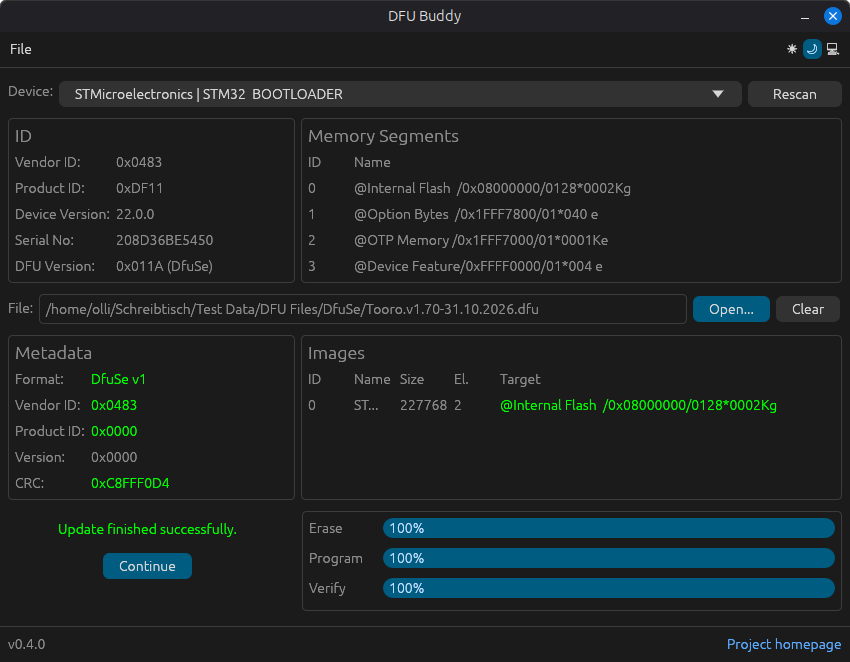
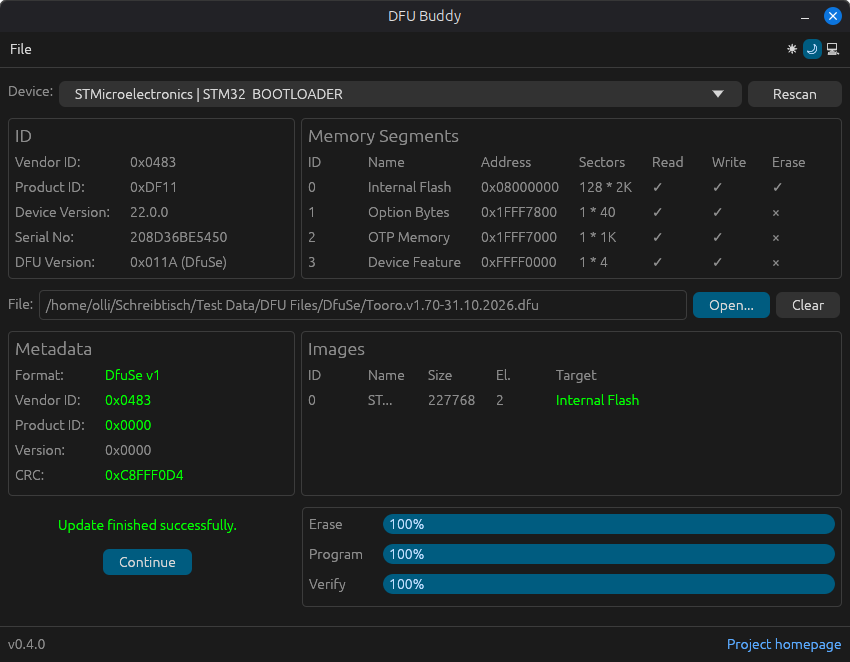
Made memory segments display more human-readable

diff --git a/src/ui/file.rs b/src/ui/file.rs
@@ -1,8 +1,11 @@
 //! UI elements showing file-related information
 
-use egui::{Button, Color32, Grid, Label, RichText, Ui};
+use egui::{Button, Color32, Grid, Label, RichText, Ui, vec2};
 
-use crate::{AppEvent, DfuFileChecks, dfudev};
+use crate::{
+    AppEvent, DfuFileChecks,
+    dfudev::{self, dfuse::MemorySegment},
+};
 
 /// Show box with file selection
 pub fn selection(
@@ -64,102 +67,106 @@ pub fn common_info(
             Some(dfu_file) => {
                 ui.vertical(|ui| {
                     ui.heading("Metadata");
-                    Grid::new("file_info").show(ui, |ui| {
-                        let vendor_id = dfu_file.suffix.idVendor;
-                        let product_id = dfu_file.suffix.idProduct;
+                    Grid::new("file_info")
+                        .spacing(vec2(20.0, 5.0))
+                        .show(ui, |ui| {
+                            let vendor_id = dfu_file.suffix.idVendor;
+                            let product_id = dfu_file.suffix.idProduct;
 
-                        ui.label("Format:");
-                        let text_color = if device_active {
-                            if dfu_file_checks.dfu_version_valid {
+                            ui.label("Format:");
+                            let text_color = if device_active {
+                                if dfu_file_checks.dfu_version_valid {
+                                    Color32::GREEN
+                                } else {
+                                    ui.style().visuals.error_fg_color
+                                }
+                            } else {
+                                Color32::LIGHT_GRAY
+                            };
+                            let format_label = ui.add(Label::new(
+                                RichText::new(format!("{}", dfu_file.content)).color(text_color),
+                            ));
+                            if device_active && !dfu_file_checks.dfu_version_valid {
+                                format_label
+                                    .on_hover_text("File format is not appropriate for the device");
+                            }
+                            ui.end_row();
+
+                            ui.label("Vendor ID:");
+                            let text_color = if device_active {
+                                if dfu_file_checks.vendor_id_accepted {
+                                    Color32::GREEN
+                                } else {
+                                    ui.style().visuals.error_fg_color
+                                }
+                            } else {
+                                Color32::LIGHT_GRAY
+                            };
+                            let vendor_id_label = ui.add(Label::new(
+                                RichText::new(format!("0x{vendor_id:04X}")).color(text_color),
+                            ));
+                            if device_active && !dfu_file_checks.vendor_id_accepted {
+                                vendor_id_label.on_hover_text(
+                                    "Vendor id does not match the one of the device",
+                                );
+                                if ui
+                                    .button("Approve")
+                                    .on_hover_text("Accept vendor id for this device")
+                                    .clicked()
+                                {
+                                    approve_vendor_id = true;
+                                }
+                            }
+                            ui.end_row();
+
+                            ui.label("Product ID:");
+                            let text_color = if device_active {
+                                if dfu_file_checks.product_id_accepted {
+                                    Color32::GREEN
+                                } else {
+                                    ui.style().visuals.error_fg_color
+                                }
+                            } else {
+                                Color32::LIGHT_GRAY
+                            };
+                            let product_id_label = ui.add(Label::new(
+                                RichText::new(format!("0x{product_id:04X}")).color(text_color),
+                            ));
+                            if device_active && !dfu_file_checks.product_id_accepted {
+                                product_id_label.on_hover_text(
+                                    "Product id does not match the one of the device",
+                                );
+                                if ui
+                                    .button("Approve")
+                                    .on_hover_text("Accept product id for this device")
+                                    .clicked()
+                                {
+                                    approve_product_id = true;
+                                }
+                            }
+                            ui.end_row();
+
+                            ui.label("Version:");
+                            ui.label(format!("0x{:04X}", dfu_file.suffix.bcdDevice));
+                            ui.end_row();
+
+                            ui.label("CRC:");
+                            let text_color = if dfu_file_checks.crc_valid {
                                 Color32::GREEN
                             } else {
                                 ui.style().visuals.error_fg_color
+                            };
+                            let crc_label = ui.add(Label::new(
+                                RichText::new(format!("0x{:08X}", dfu_file.suffix.dwCRC))
+                                    .color(text_color),
+                            ));
+                            if !dfu_file_checks.crc_valid {
+                                crc_label.on_hover_text(
+                                    "Calculated CRC does not match the value stored in the file",
+                                );
                             }
-                        } else {
-                            Color32::LIGHT_GRAY
-                        };
-                        let format_label = ui.add(Label::new(
-                            RichText::new(format!("{}", dfu_file.content)).color(text_color),
-                        ));
-                        if device_active && !dfu_file_checks.dfu_version_valid {
-                            format_label
-                                .on_hover_text("File format is not appropriate for the device");
-                        }
-                        ui.end_row();
-
-                        ui.label("Vendor ID:");
-                        let text_color = if device_active {
-                            if dfu_file_checks.vendor_id_accepted {
-                                Color32::GREEN
-                            } else {
-                                ui.style().visuals.error_fg_color
-                            }
-                        } else {
-                            Color32::LIGHT_GRAY
-                        };
-                        let vendor_id_label = ui.add(Label::new(
-                            RichText::new(format!("0x{vendor_id:04X}")).color(text_color),
-                        ));
-                        if device_active && !dfu_file_checks.vendor_id_accepted {
-                            vendor_id_label
-                                .on_hover_text("Vendor id does not match the one of the device");
-                            if ui
-                                .button("Approve")
-                                .on_hover_text("Accept vendor id for this device")
-                                .clicked()
-                            {
-                                approve_vendor_id = true;
-                            }
-                        }
-                        ui.end_row();
-
-                        ui.label("Product ID:");
-                        let text_color = if device_active {
-                            if dfu_file_checks.product_id_accepted {
-                                Color32::GREEN
-                            } else {
-                                ui.style().visuals.error_fg_color
-                            }
-                        } else {
-                            Color32::LIGHT_GRAY
-                        };
-                        let product_id_label = ui.add(Label::new(
-                            RichText::new(format!("0x{product_id:04X}")).color(text_color),
-                        ));
-                        if device_active && !dfu_file_checks.product_id_accepted {
-                            product_id_label
-                                .on_hover_text("Product id does not match the one of the device");
-                            if ui
-                                .button("Approve")
-                                .on_hover_text("Accept product id for this device")
-                                .clicked()
-                            {
-                                approve_product_id = true;
-                            }
-                        }
-                        ui.end_row();
-
-                        ui.label("Version:");
-                        ui.label(format!("0x{:04X}", dfu_file.suffix.bcdDevice));
-                        ui.end_row();
-
-                        ui.label("CRC:");
-                        let text_color = if dfu_file_checks.crc_valid {
-                            Color32::GREEN
-                        } else {
-                            ui.style().visuals.error_fg_color
-                        };
-                        let crc_label = ui.add(Label::new(
-                            RichText::new(format!("0x{:08X}", dfu_file.suffix.dwCRC))
-                                .color(text_color),
-                        ));
-                        if !dfu_file_checks.crc_valid {
-                            crc_label.on_hover_text(
-                                "Calculated CRC does not match the value stored in the file",
-                            );
-                        }
-                        ui.end_row();
-                    });
+                            ui.end_row();
+                        });
                 });
             }
             None => {
@@ -201,6 +208,7 @@ pub fn content_info(
                         ui.heading("Images");
                         Grid::new("file_content_info")
                             .num_columns(5)
+                            .spacing(vec2(20.0, 5.0))
                             .show(ui, |ui| {
                                 ui.label("ID");
                                 ui.label("Name");
@@ -223,13 +231,16 @@ pub fn content_info(
                                         let target = device_info.alt_settings.iter().find(|&alt| {
                                             alt.0 == image.target_prefix.bAlternateSetting
                                         });
-                                        if let Some(target) = target {
+                                        if let Some((_, desc)) = target {
+                                            let segment = MemorySegment::from_string_desc(desc);
                                             ui.add(
                                                 Label::new(
-                                                    RichText::new(&target.1).color(Color32::GREEN),
+                                                    RichText::new(segment.name)
+                                                        .color(Color32::GREEN),
                                                 )
                                                 .truncate(),
-                                            );
+                                            )
+                                            .on_hover_text(desc);
                                         } else {
                                             ui.add(Label::new(
                                                 RichText::new("Not found")

diff --git a/src/ui/device.rs b/src/ui/device.rs
@@ -1,8 +1,11 @@
 //! UI elements showing device-related information
 
-use egui::{Button, Color32, ComboBox, Grid, Label, ProgressBar, RichText, ScrollArea, Ui};
+use egui::{Button, Color32, ComboBox, Grid, Label, ProgressBar, RichText, ScrollArea, Ui, vec2};
 
-use crate::{AppEvent, DeviceUpdateState, DeviceUpdateStep, dfudev};
+use crate::{
+    AppEvent, DeviceUpdateState, DeviceUpdateStep,
+    dfudev::{self, dfuse::MemorySegment},
+};
 
 /// Show combobox with devices
 pub fn selection(
@@ -86,35 +89,38 @@ pub fn common_info(ui: &mut Ui, device_info: Option<&dfudev::DeviceInfo>) {
             Some(device_info) => {
                 ui.vertical(|ui| {
                     ui.heading("ID");
-                    Grid::new("device_info").show(ui, |ui| {
-                        ui.label("Vendor ID:");
-                        ui.label(format!("0x{:04X}", device_info.vendor_id));
-                        ui.end_row();
+                    Grid::new("device_info")
+                        .num_columns(2)
+                        .spacing(vec2(20.0, 5.0))
+                        .show(ui, |ui| {
+                            ui.label("Vendor ID:");
+                            ui.label(format!("0x{:04X}", device_info.vendor_id));
+                            ui.end_row();
 
-                        ui.label("Product ID:");
-                        ui.label(format!("0x{:04X}", device_info.product_id));
-                        ui.end_row();
+                            ui.label("Product ID:");
+                            ui.label(format!("0x{:04X}", device_info.product_id));
+                            ui.end_row();
 
-                        ui.label("Device Version:");
-                        ui.label(device_info.device_version.to_owned());
-                        ui.end_row();
+                            ui.label("Device Version:");
+                            ui.label(device_info.device_version.to_owned());
+                            ui.end_row();
 
-                        ui.label("Serial No:");
-                        ui.label(device_info.serial_number_string.to_owned());
-                        ui.end_row();
+                            ui.label("Serial No:");
+                            ui.label(device_info.serial_number_string.to_owned());
+                            ui.end_row();
 
-                        ui.label("DFU Version:");
-                        let version_info = if device_info.dfu_version == 0x011A {
-                            "(DfuSe)"
-                        } else {
-                            ""
-                        };
-                        ui.label(format!(
-                            "0x{:04X} {}",
-                            device_info.dfu_version, version_info
-                        ));
-                        ui.end_row();
-                    });
+                            ui.label("DFU Version:");
+                            let version_info = if device_info.dfu_version == 0x011A {
+                                "(DfuSe)"
+                            } else {
+                                ""
+                            };
+                            ui.label(format!(
+                                "0x{:04X} {}",
+                                device_info.dfu_version, version_info
+                            ));
+                            ui.end_row();
+                        });
                 });
             }
             None => {
@@ -138,17 +144,44 @@ pub fn memory_info(ui: &mut Ui, device_info: Option<&dfudev::DeviceInfo>) {
                     ui.heading("Memory Segments");
                     ScrollArea::vertical().show(ui, |ui| {
                         ui.set_width(ui.available_width());
-                        Grid::new("segments_info").show(ui, |ui| {
-                            ui.label("ID");
-                            ui.label("Name");
-                            ui.end_row();
-
-                            for alt_setting in &device_info.alt_settings {
-                                ui.label(format!("{}", alt_setting.0));
-                                ui.label(alt_setting.1.to_owned());
+                        Grid::new("segments_info")
+                            .num_columns(5)
+                            .spacing(vec2(20.0, 5.0))
+                            .show(ui, |ui| {
+                                ui.label("ID");
+                                ui.label("Name");
+                                ui.label("Address");
+                                ui.label("Sectors");
+                                ui.label("Read");
+                                ui.label("Write");
+                                ui.label("Erase");
                                 ui.end_row();
-                            }
-                        });
+
+                                for (id, desc) in &device_info.alt_settings {
+                                    let segment = MemorySegment::from_string_desc(desc);
+                                    for region in segment.regions {
+                                        ui.label(format!("{id}"));
+                                        ui.label(&segment.name).on_hover_text(desc);
+                                        ui.label(format!("0x{:08X}", region.start_address));
+                                        let sector_size =
+                                            if region.sector_size.is_multiple_of(1024 * 1024) {
+                                                format!("{}M", region.sector_size / (1024 * 1024))
+                                            } else if region.sector_size.is_multiple_of(1024) {
+                                                format!("{}K", region.sector_size / 1024)
+                                            } else {
+                                                format!("{}", region.sector_size)
+                                            };
+                                        ui.label(format!(
+                                            "{} * {}",
+                                            region.sector_count, sector_size
+                                        ));
+                                        ui.label(if region.readable { "✓" } else { "×" });
+                                        ui.label(if region.writable { "✓" } else { "×" });
+                                        ui.label(if region.erasable { "✓" } else { "×" });
+                                        ui.end_row();
+                                    }
+                                }
+                            });
                     });
                 });
             }
